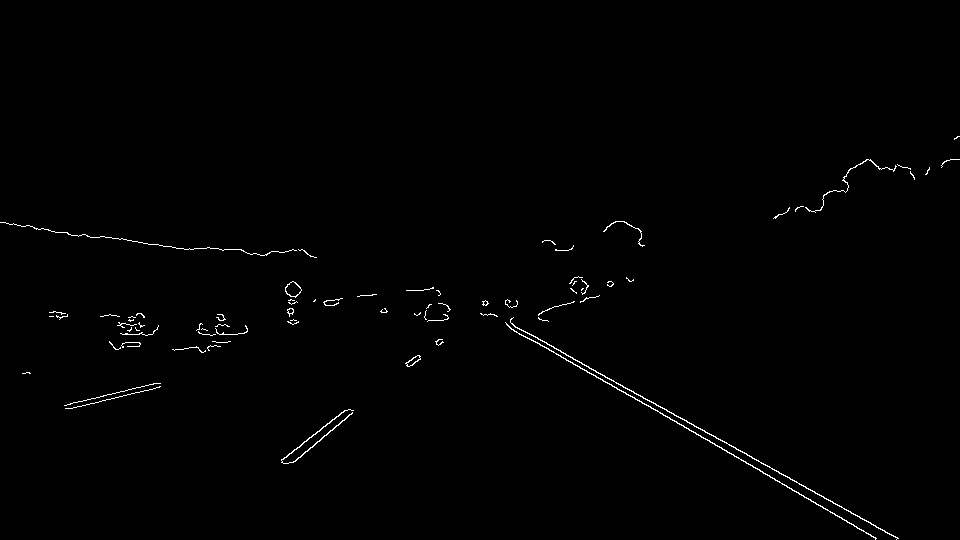
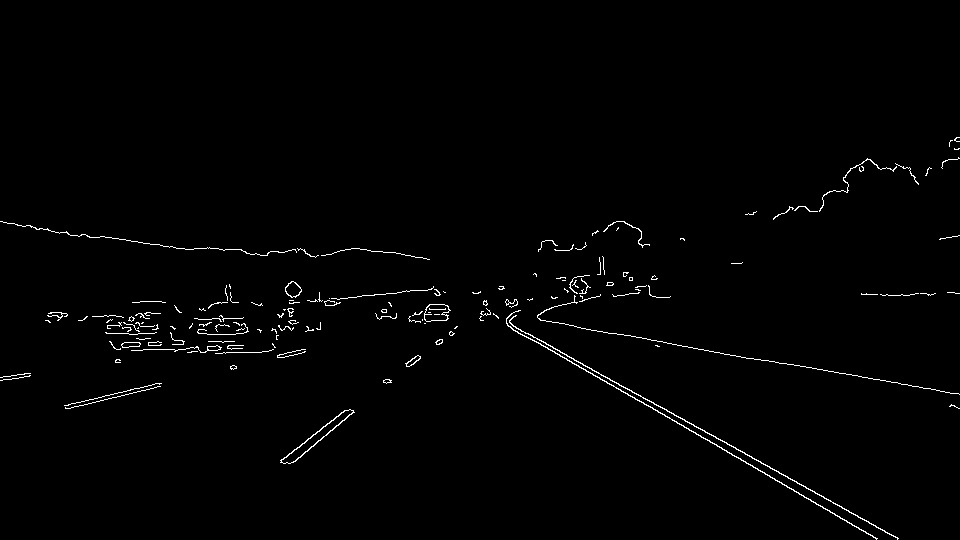
last

diff --git a/project.py b/project.py
@@ -11,7 +11,7 @@ def rescaleimage(frame, scale=1):
     return cv.resize(frame,dimensions,interpolation=cv.INTER_AREA)
 
 
-blur=cv.GaussianBlur(img, (5,5),cv.BORDER_DEFAULT)
+blur=cv.GaussianBlur(img, (5,5), 0)
 canny = cv.Canny(blur,125,175)
 
 resized= cv.resize(img, (500,500), interpolation=cv.INTER_CUBIC)
